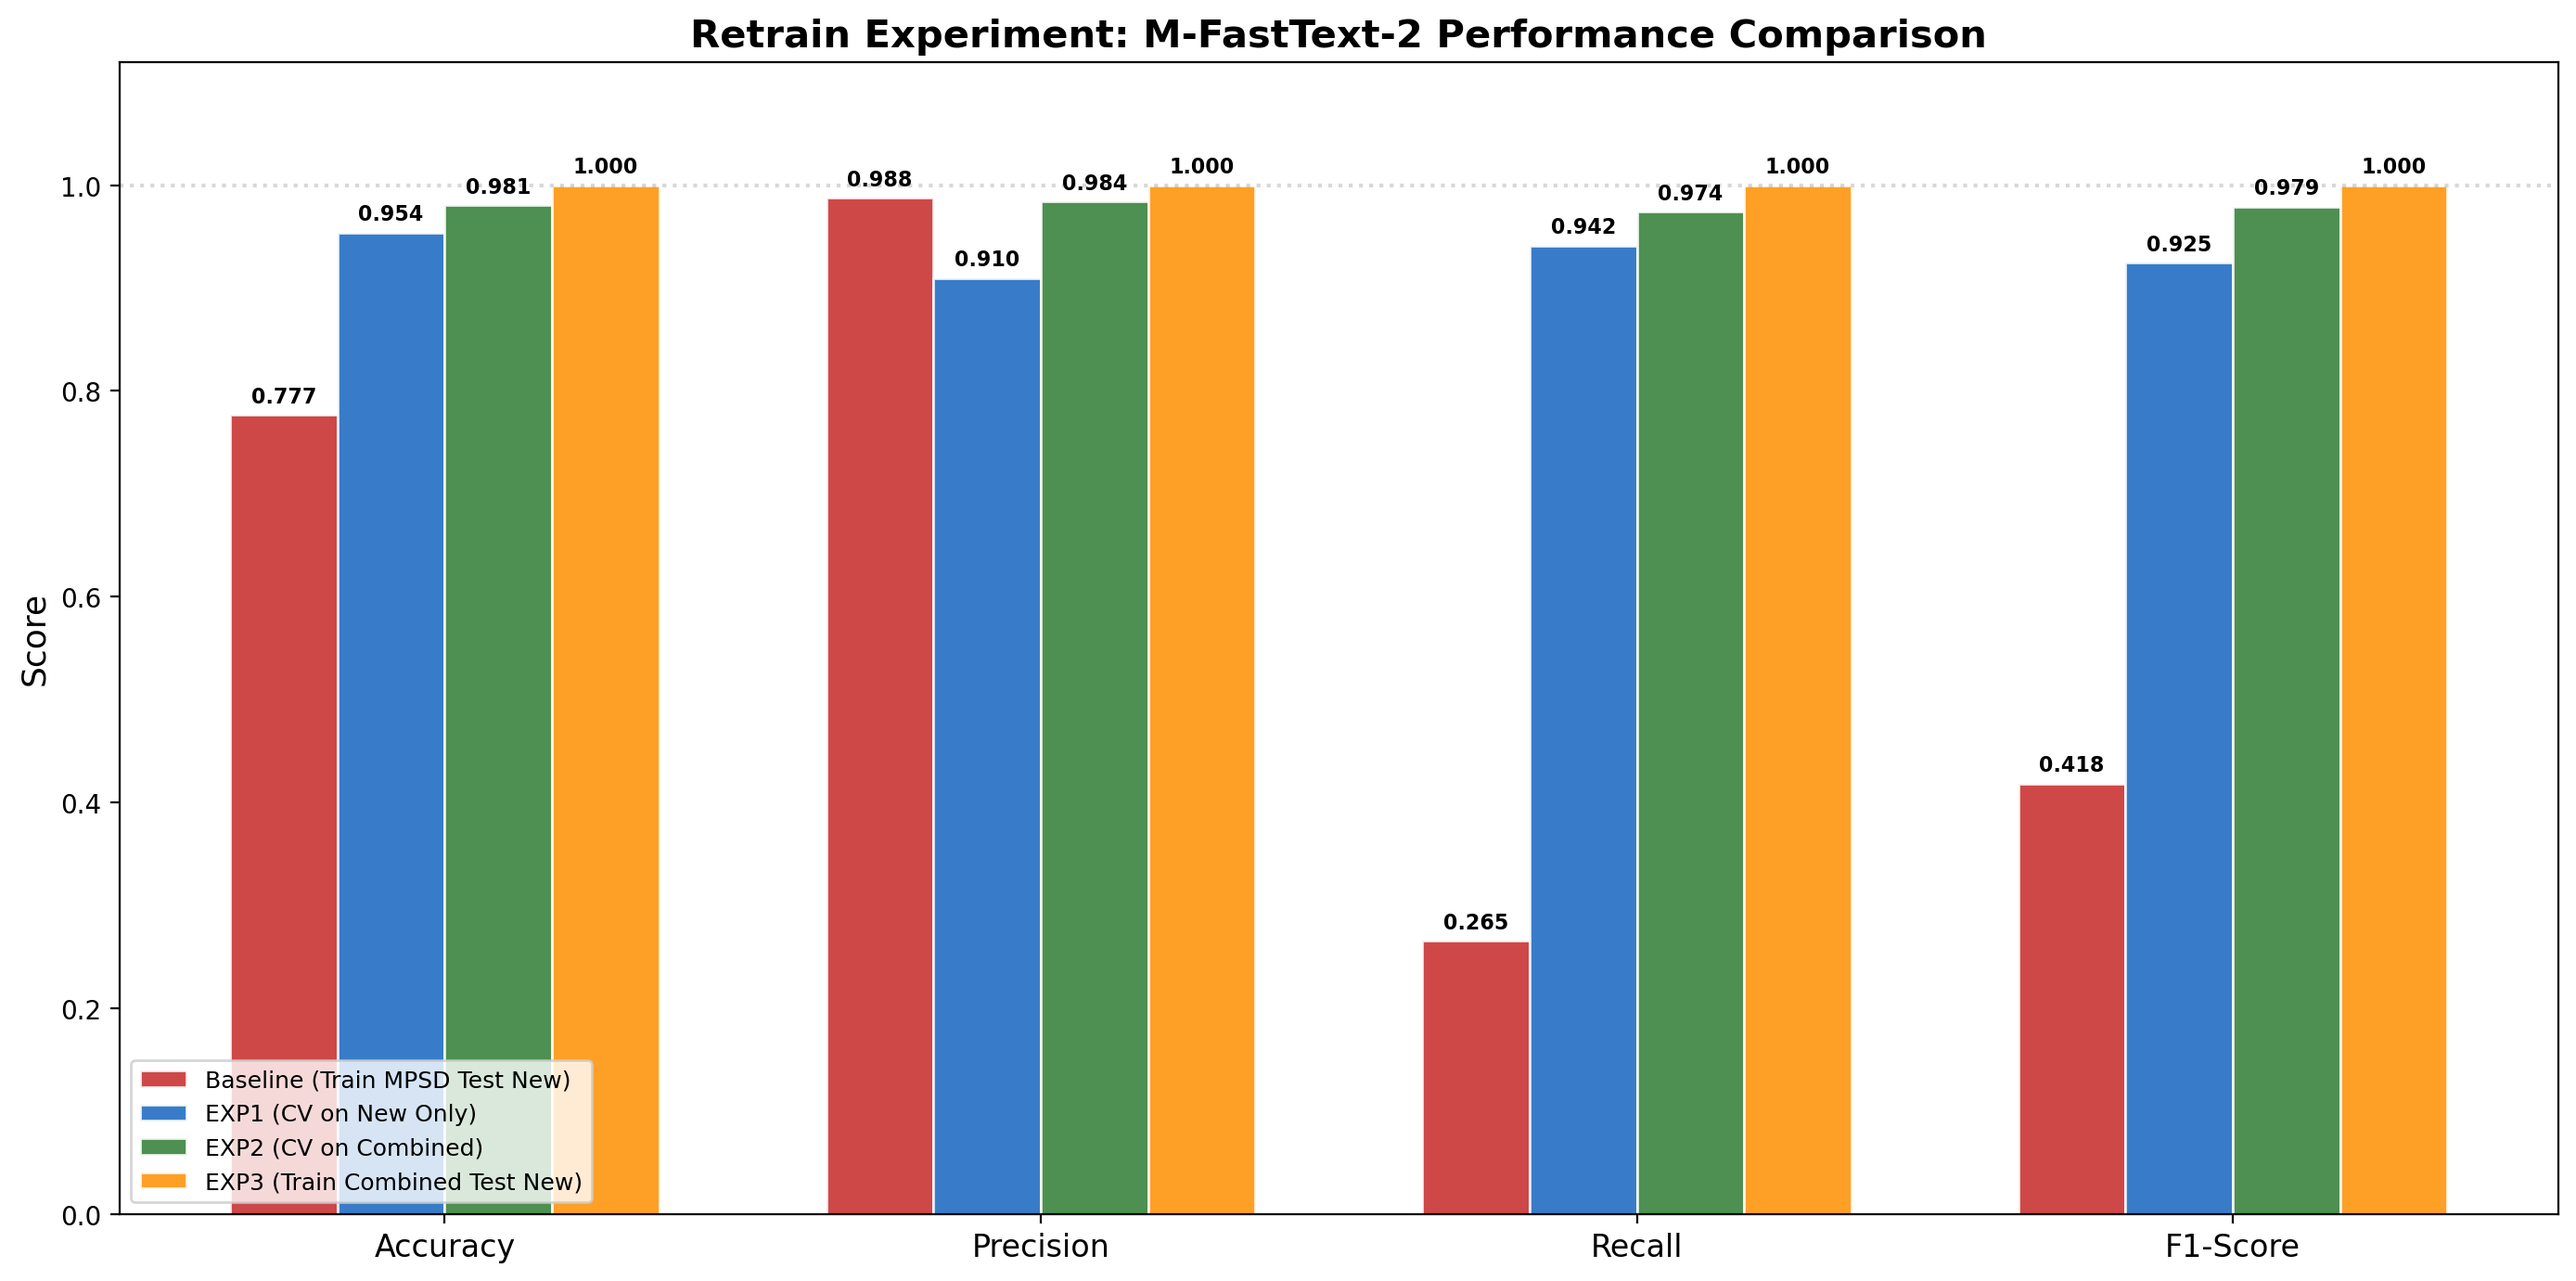
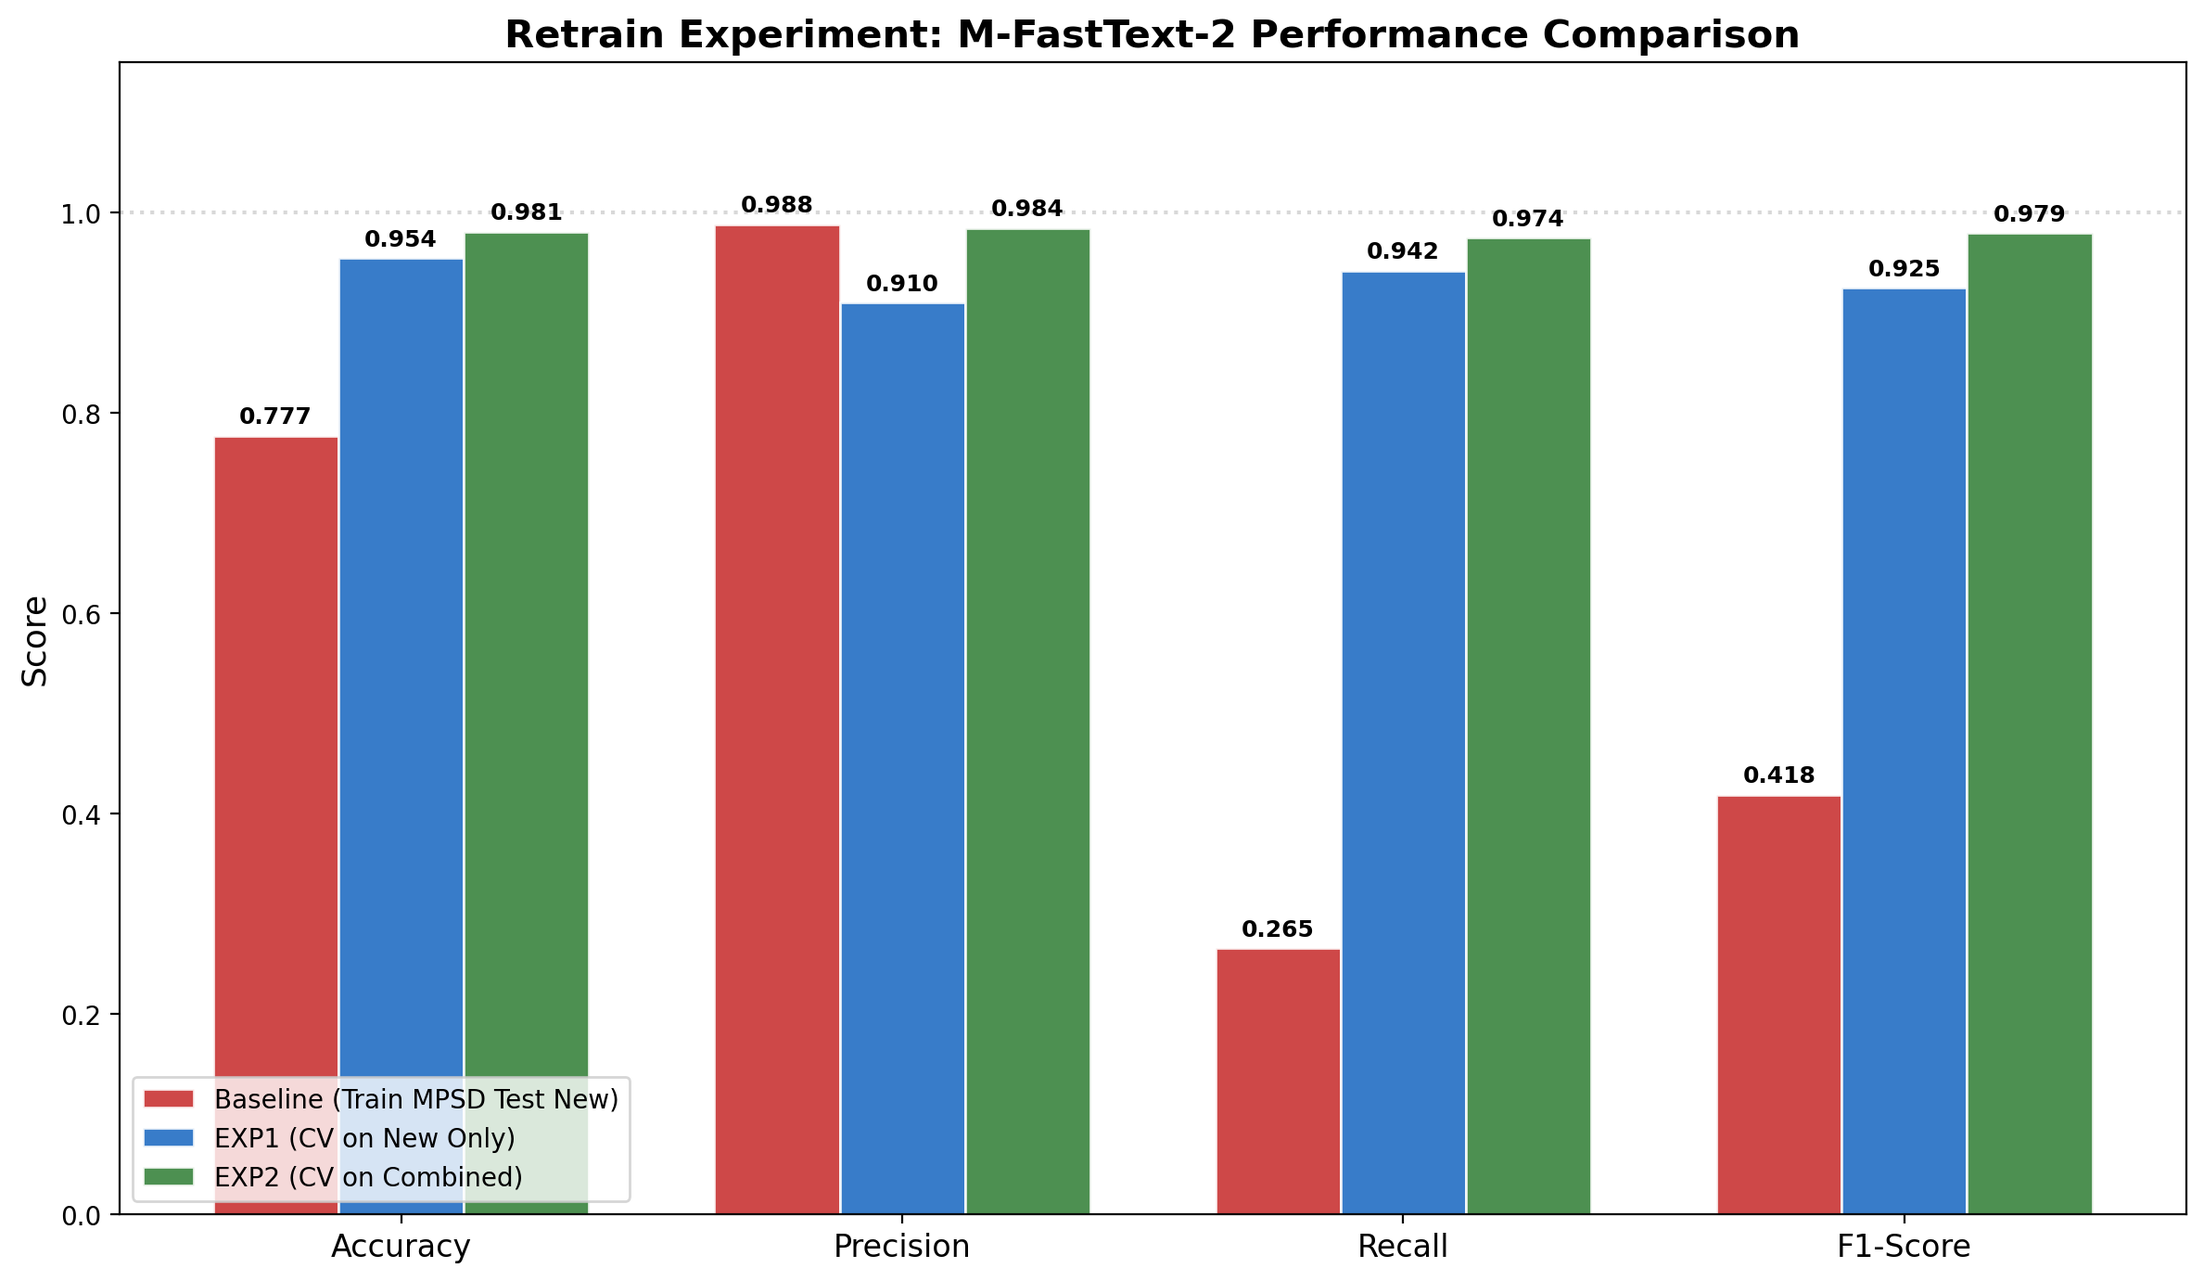
Update AST depth calculation to include parenthesis and update gitignore

diff --git a/src/core/m_fasttext2_model_78dim.py b/src/core/m_fasttext2_model_78dim.py
@@ -455,8 +455,8 @@ AST_5_SPECIAL_PATTERNS = OrderedDict([
 def calculate_ast_depth(script):
     """
     Calculate the maximum nesting depth of the AST.
-    Approximated by tracking brace {} nesting depth,
-    ignoring braces inside string literals.
+    Approximated by tracking brace {} and parenthesis () nesting depth,
+    ignoring braces/parentheses inside string literals.
     """
     max_depth = 0
     current_depth = 0
@@ -470,10 +470,10 @@ def calculate_ast_depth(script):
         elif char == '"' and not in_single_quote and prev_char != '`':
             in_double_quote = not in_double_quote
         elif not in_single_quote and not in_double_quote:
-            if char == '{':
+            if char in ('{', '('):
                 current_depth += 1
                 max_depth = max(max_depth, current_depth)
-            elif char == '}':
+            elif char in ('}', ')'):
                 current_depth = max(0, current_depth - 1)
         prev_char = char
 

diff --git a/src/core/m_fasttext2_model_enhanced.py b/src/core/m_fasttext2_model_enhanced.py
@@ -455,8 +455,8 @@ AST_5_SPECIAL_PATTERNS = OrderedDict([
 def calculate_ast_depth(script):
     """
     Calculate the maximum nesting depth of the AST.
-    Approximated by tracking brace {} nesting depth,
-    ignoring braces inside string literals.
+    Approximated by tracking brace {} and parenthesis () nesting depth,
+    ignoring braces/parentheses inside string literals.
     """
     max_depth = 0
     current_depth = 0
@@ -470,10 +470,10 @@ def calculate_ast_depth(script):
         elif char == '"' and not in_single_quote and prev_char != '`':
             in_double_quote = not in_double_quote
         elif not in_single_quote and not in_double_quote:
-            if char == '{':
+            if char in ('{', '('):
                 current_depth += 1
                 max_depth = max(max_depth, current_depth)
-            elif char == '}':
+            elif char in ('}', ')'):
                 current_depth = max(0, current_depth - 1)
         prev_char = char
 
